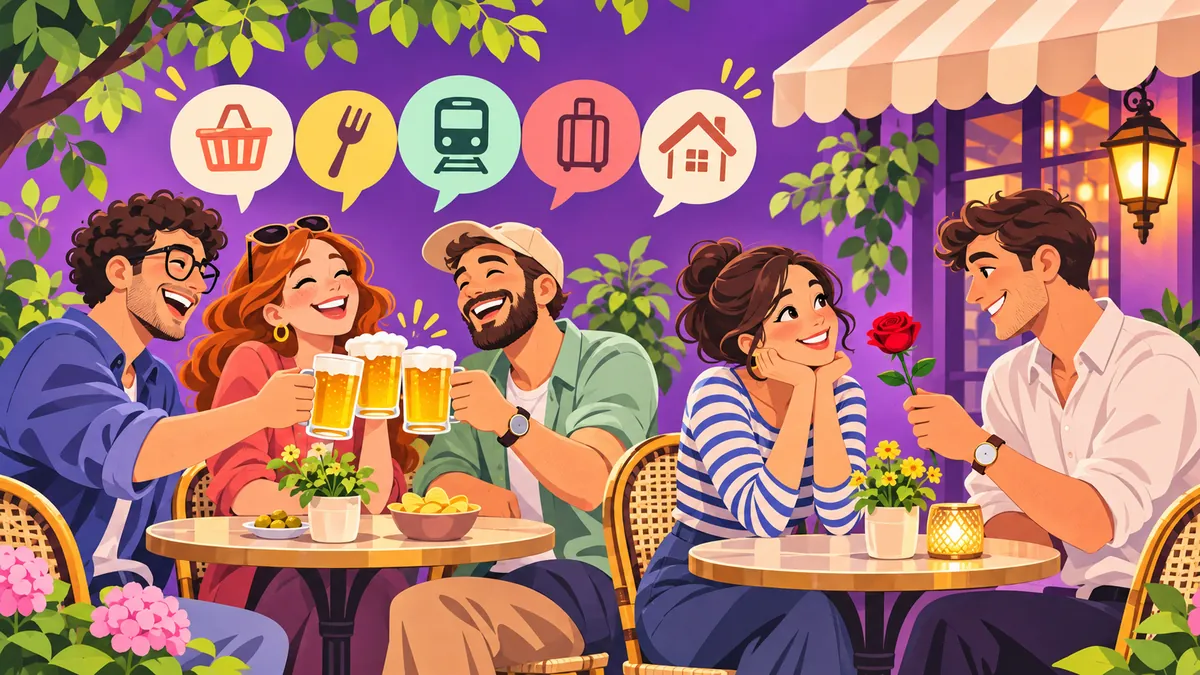
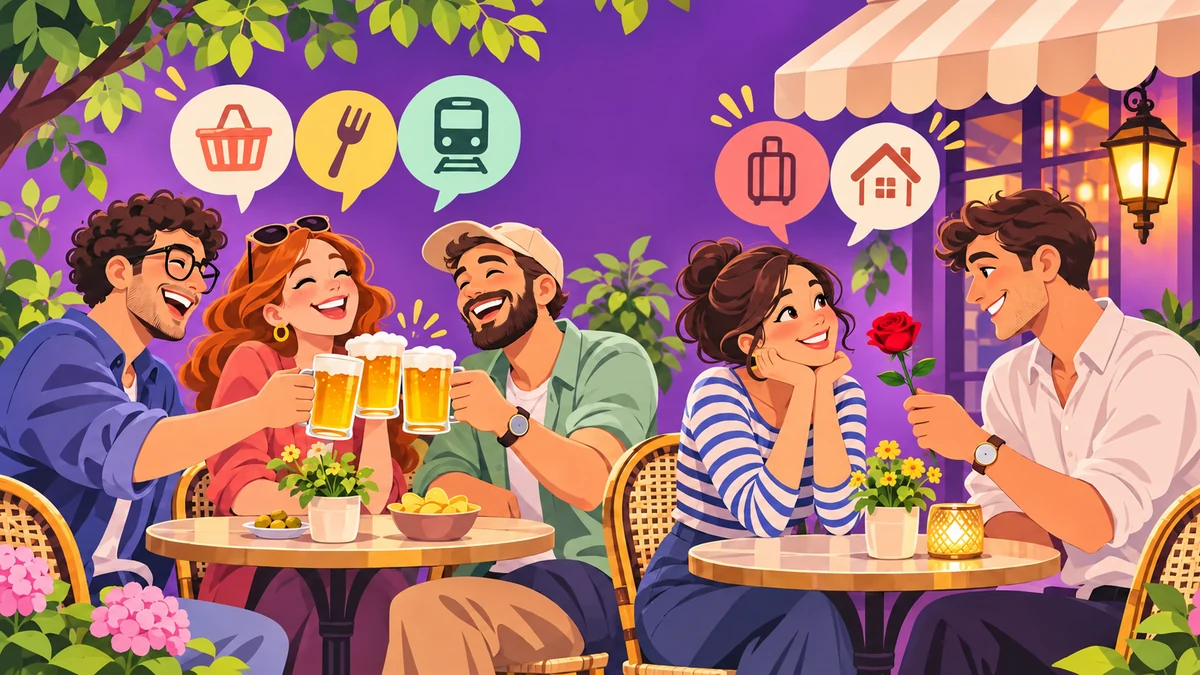
Refine dashboard hero and accessible login

diff --git a/src/app/app-pages.ts b/src/app/app-pages.ts
@@ -1,4 +1,4 @@
-import { Component, inject } from '@angular/core';
+import { Component, ElementRef, ViewChild, inject, signal } from '@angular/core';
 import { FormsModule } from '@angular/forms';
 import { RouterLink } from '@angular/router';
 import { App } from './app';
@@ -25,7 +25,7 @@ import { ProfilePanel } from './features/profile/profile-panel';
   selector: 'app-login-page',
   imports: [FormsModule],
   template: `
-    <div class="mx-auto max-w-5xl overflow-hidden rounded-[1.7rem] bg-white shadow-[0_18px_50px_#30275214] lg:grid lg:min-h-[690px] lg:grid-cols-[1.1fr_1fr]">
+    <div class="login-page mx-auto max-w-5xl overflow-hidden rounded-[1.7rem] bg-white shadow-[0_18px_50px_#30275214] lg:grid lg:min-h-[690px] lg:grid-cols-[1.1fr_1fr]">
       <div class="relative overflow-hidden bg-pop-primary lg:flex lg:flex-col lg:justify-end">
         <div class="flex items-center gap-2 bg-white px-5 py-3 lg:hidden"><img src="/illustrations/ourfinance-mark.svg" width="34" height="34" alt="" /><span class="text-lg font-black text-pop-primary-dark">ourfinance.</span></div>
         <picture><source media="(min-width: 1024px)" srcset="/illustrations/cafe-hero.webp" /><img class="h-72 w-full object-cover object-center sm:h-72 lg:h-full lg:min-h-[690px]" src="/illustrations/cafe-hero-mobile.webp" alt="" /></picture>
@@ -57,16 +57,17 @@ import { ProfilePanel } from './features/profile/profile-panel';
           @if (app.mode() !== 'login') {
             <div class="mt-4 flex gap-2 text-sm"><button class="font-bold text-pop-primary-dark underline" type="button" (click)="app.mode.set('login')">{{ t('connection') }}</button></div>
           }
-          <form class="mt-5 space-y-4" (ngSubmit)="app.submit()">
-            <label class="block text-sm font-bold">{{ t('email') }}<span class="relative mt-1 block"><svg class="pointer-events-none absolute left-3 top-1/2 -translate-y-1/2 text-pop-primary-dark" width="19" height="19" viewBox="0 0 24 24" fill="none" stroke="currentColor" stroke-width="1.8" aria-hidden="true"><rect x="3" y="5" width="18" height="14" rx="2" /><path d="m3 7 9 7 9-7" /></svg><input class="min-h-11 w-full rounded-xl border border-pop-border bg-pop-background py-2 pl-10 pr-3 focus-visible:outline-2 focus-visible:outline-pop-primary" type="email" name="email" autocomplete="email" [(ngModel)]="app.email" required /></span></label>
+          <form class="mt-5 space-y-4" novalidate (ngSubmit)="submit()">
+            <div><label class="block text-sm font-bold" for="login-email">{{ t('email') }}</label><span class="relative mt-1 block"><svg class="pointer-events-none absolute left-3 top-1/2 -translate-y-1/2 text-pop-primary-dark" width="19" height="19" viewBox="0 0 24 24" fill="none" stroke="currentColor" stroke-width="1.8" aria-hidden="true"><rect x="3" y="5" width="18" height="14" rx="2" /><path d="m3 7 9 7 9-7" /></svg><input #emailInput id="login-email" class="min-h-11 w-full rounded-xl border border-pop-border bg-pop-background py-2 pl-10 pr-3 focus-visible:outline-2 focus-visible:outline-pop-primary" type="email" name="email" autocomplete="email" [(ngModel)]="app.email" [attr.aria-invalid]="emailInvalid()" [attr.aria-describedby]="emailInvalid() ? 'login-email-error' : app.message() ? 'login-auth-message' : null" required /></span>@if (emailInvalid()) { <p id="login-email-error" class="mt-1 text-xs font-bold text-rose-700">{{ t('emailInvalid') }}</p> }</div>
             @if (app.mode() !== 'reset') {
-              <label class="block text-sm font-bold">{{ t('password') }}
-                <span class="mt-1 flex rounded-xl border border-pop-border bg-pop-background focus-within:outline-2 focus-within:outline-pop-primary">
+              <div><label class="block text-sm font-bold" for="login-password">{{ t('password') }}</label>
+                <span class="mt-1 flex rounded-xl border border-pop-border bg-pop-background focus-within:outline-2 focus-within:outline-pop-primary" [class.border-rose-600]="passwordInvalid()">
                   <svg class="ml-3 shrink-0 self-center text-pop-primary-dark" width="19" height="19" viewBox="0 0 24 24" fill="none" stroke="currentColor" stroke-width="1.8" aria-hidden="true"><rect x="4" y="10" width="16" height="11" rx="2" /><path d="M8 10V7a4 4 0 0 1 8 0v3" /></svg>
-                  <input class="min-h-11 min-w-0 flex-1 bg-transparent px-2 outline-none" [type]="app.showPassword() ? 'text' : 'password'" name="password" [autocomplete]="app.mode() === 'register' ? 'new-password' : 'current-password'" [(ngModel)]="app.password" required />
+                  <input #passwordInput id="login-password" class="min-h-11 min-w-0 flex-1 bg-transparent px-2 outline-none" [type]="app.showPassword() ? 'text' : 'password'" name="password" [autocomplete]="app.mode() === 'register' ? 'new-password' : 'current-password'" [(ngModel)]="app.password" [attr.aria-invalid]="passwordInvalid()" [attr.aria-describedby]="passwordInvalid() ? 'login-password-error' : app.message() ? 'login-auth-message' : null" required />
                   <button class="flex min-h-11 min-w-11 items-center justify-center px-3 text-pop-primary-dark" type="button" (click)="app.showPassword.update(value => !value)" [attr.aria-label]="app.showPassword() ? t('hidePassword') : t('showPassword')"><svg width="19" height="19" viewBox="0 0 24 24" fill="none" stroke="currentColor" stroke-width="1.8" aria-hidden="true"><path d="M2 12s3.5-6 10-6 10 6 10 6-3.5 6-10 6S2 12 2 12z" /><circle cx="12" cy="12" r="3" /></svg></button>
                 </span>
-              </label>
+                @if (passwordInvalid()) { <p id="login-password-error" class="mt-1 text-xs font-bold text-rose-700">{{ t('passwordRequired') }}</p> }
+              </div>
             }
             @if (app.mode() === 'login') { <button class="block min-h-9 w-full text-right text-xs font-bold text-pop-primary-dark" type="button" (click)="app.mode.set('reset')">{{ t('forgotten') }}</button> }
             <button class="min-h-12 w-full rounded-xl bg-pop-coral px-4 font-extrabold text-pop-text hover:brightness-95 disabled:opacity-50" [disabled]="app.busy() || !app.online()" type="submit">{{ app.mode() === 'register' ? t('register') : app.mode() === 'reset' ? t('resetSend') : t('login') }}</button>
@@ -77,12 +78,26 @@ import { ProfilePanel } from './features/profile/profile-panel';
             <p class="mt-4 text-center text-sm text-pop-muted">{{ t('newHere') }} <button class="font-bold text-pop-primary-dark underline" type="button" (click)="app.mode.set('register')">{{ t('signup') }}</button></p>
           }
         }
-        @if (app.message()) { <p class="mt-4 text-sm" role="status">{{ app.message() }}</p> }
+        @if (app.message()) { <p id="login-auth-message" class="mt-4 text-sm" role="alert">{{ app.message() }}</p> }
       </div>
     </div>
   `,
 })
-export class LoginPage { readonly app = inject(App); readonly t = t; }
+export class LoginPage {
+  readonly app = inject(App);
+  readonly t = t;
+  readonly submitted = signal(false);
+  @ViewChild('emailInput') emailInput?: ElementRef<HTMLInputElement>;
+  @ViewChild('passwordInput') passwordInput?: ElementRef<HTMLInputElement>;
+  emailInvalid(): boolean { return this.submitted() && !this.emailInput?.nativeElement.validity.valid; }
+  passwordInvalid(): boolean { return this.submitted() && this.app.mode() !== 'reset' && !this.app.password; }
+  async submit(): Promise<void> {
+    this.submitted.set(true);
+    if (this.emailInvalid()) { this.emailInput?.nativeElement.focus(); return; }
+    if (this.passwordInvalid()) { this.passwordInput?.nativeElement.focus(); return; }
+    await this.app.submit();
+  }
+}
 
 @Component({
   imports: [RouterLink, GroupOverview],
@@ -100,7 +115,8 @@ export class LoginPage { readonly app = inject(App); readonly t = t; }
         <section class="relative mt-3 overflow-hidden rounded-[1.8rem] bg-pop-primary text-white shadow-[0_12px_30px_#6455ec30] sm:mt-5" [attr.aria-label]="t('myBalance')">
           <div class="relative min-h-44 px-5 pb-20 pt-5 sm:hidden">
             <div class="relative z-10 max-w-[54%]"><p class="text-xl font-black leading-tight">{{ t('dashboardHello') }}{{ app.firstName() ? ' ' + app.firstName() : '' }} ! 👋</p><p class="mt-2 text-xs text-white/90">{{ t('dashboardIntro') }}</p><p class="mt-3 text-xs font-bold">{{ group.name }} · {{ group.currency }}</p></div>
-            <img class="pointer-events-none absolute bottom-[-1.2rem] right-[-1.3rem] w-[67%] max-w-64" src="/illustrations/couple-cafe-table.webp" alt="" />
+            <img class="pointer-events-none absolute inset-0 h-full w-full origin-left scale-[1.38] object-cover object-left opacity-90" src="/illustrations/cafe-hero-mobile.webp" alt="" />
+            <div class="pointer-events-none absolute inset-0 bg-gradient-to-r from-pop-primary via-pop-primary/85 to-transparent"></div>
           </div>
           <div class="hidden min-h-64 grid-cols-[52%_48%] sm:grid">
             <div class="relative overflow-hidden"><img class="absolute inset-0 h-full w-full object-cover object-[16%_45%]" src="/illustrations/cafe-hero-mobile.webp" alt="" /><div class="absolute inset-y-0 right-0 w-20 bg-gradient-to-r from-transparent to-pop-primary"></div></div>
@@ -110,13 +126,13 @@ export class LoginPage { readonly app = inject(App); readonly t = t; }
           </div>
         </section>
         <div class="mt-4 flex max-w-full min-w-0 snap-x gap-3 overflow-x-auto pb-1 sm:hidden" [attr.aria-label]="t('myGroups')">
-          @for (item of app.groups(); track item.id) { <button class="flex min-h-16 w-[80%] shrink-0 snap-start items-center gap-3 rounded-2xl border border-pop-border bg-white p-3 text-left" type="button" [attr.aria-pressed]="app.selectedGroupId() === item.id" (click)="app.selectedGroupId.set(item.id)"><img class="h-10 w-10" [src]="$index % 2 ? '/illustrations/category-travel.svg' : '/illustrations/category-home.svg'" alt="" /><span class="min-w-0 flex-1"><strong class="block truncate">{{ item.name }}</strong><small>{{ item.memberCount ?? 1 }} {{ t('membersCount') }}</small></span><span class="rounded-full bg-pop-lavender px-2 py-1 text-xs font-bold">{{ item.currency }}</span></button> }
+          @for (item of app.groups(); track item.id) { <button class="flex min-h-16 shrink-0 snap-start items-center gap-3 rounded-2xl border border-pop-border bg-white p-3 text-left" [class.w-full]="app.groups().length === 1" [class.w-[80%]]="app.groups().length > 1" type="button" [attr.aria-pressed]="app.selectedGroupId() === item.id" (click)="app.selectedGroupId.set(item.id)"><img class="h-10 w-10" [src]="$index % 2 ? '/illustrations/category-travel.svg' : '/illustrations/category-home.svg'" alt="" /><span class="min-w-0 flex-1"><strong class="block truncate">{{ item.name }}</strong><small>{{ item.memberCount ?? 1 }} {{ t('membersCount') }}</small></span><span class="rounded-full bg-pop-lavender px-2 py-1 text-xs font-bold">{{ item.currency }}</span></button> }
         </div>
         <a class="mt-2 flex min-h-11 items-center justify-center rounded-2xl bg-pop-lavender text-sm font-extrabold text-pop-primary-dark sm:hidden" routerLink="/groups">+ {{ t('createGroup') }}</a>
         <div class="flex flex-col">
         <nav class="mt-5 grid gap-3 sm:grid-cols-3" [attr.aria-label]="t('quickActions')">
           <a class="dashboard-action dashboard-action-coral" routerLink="/expenses"><span class="dashboard-action-icon dashboard-action-icon-coral" aria-hidden="true"><svg viewBox="0 0 48 48" fill="none"><path d="M24 10v28M10 24h28" stroke="currentColor" stroke-width="5" stroke-linecap="round" /></svg></span><strong>{{ t('addExpenseAction') }}</strong></a>
-          <a class="dashboard-action dashboard-action-lavender" routerLink="/groups"><span class="dashboard-action-icon" aria-hidden="true"><svg viewBox="0 0 48 48" fill="none"><circle cx="19" cy="17" r="7" stroke="currentColor" stroke-width="3"/><path d="M7 37v-3a12 12 0 0 1 24 0v3H7ZM36 15v14M29 22h14" stroke="currentColor" stroke-width="3" stroke-linecap="round" stroke-linejoin="round"/></svg></span><strong>{{ t('inviteQrAction') }}</strong><svg class="dashboard-action-qr" viewBox="0 0 36 36" fill="none" aria-hidden="true"><path d="M2 2h12v12H2zM22 2h12v12H22zM2 22h12v12H2z" stroke="currentColor" stroke-width="3"/><path d="M22 22h4v4h-4zM30 22h4v4h-4zM22 30h4v4h-4zM30 30h4v4h-4z" fill="currentColor"/></svg></a>
+          <a class="dashboard-action dashboard-action-lavender" routerLink="/groups"><span class="dashboard-action-icon" aria-hidden="true"><svg viewBox="0 0 24 24" fill="none" stroke="currentColor" stroke-width="2" stroke-linecap="round" stroke-linejoin="round"><path d="M2 21a8 8 0 0 1 13.292-6"/><circle cx="10" cy="8" r="5"/><path d="M19 16v6"/><path d="M22 19h-6"/></svg></span><strong>{{ t('inviteQrAction') }}</strong><svg class="dashboard-action-qr" viewBox="0 0 36 36" fill="none" aria-hidden="true"><path d="M2 2h12v12H2zM22 2h12v12H22zM2 22h12v12H2z" stroke="currentColor" stroke-width="3"/><path d="M22 22h4v4h-4zM30 22h4v4h-4zM22 30h4v4h-4zM30 30h4v4h-4z" fill="currentColor"/></svg></a>
           <a class="dashboard-action dashboard-action-lavender" routerLink="/statistics"><span class="dashboard-action-icon" aria-hidden="true"><svg viewBox="0 0 48 48" fill="none"><path d="M11 16h25l-6-6m6 6-6 6M37 32H12l6-6m-6 6 6 6" stroke="currentColor" stroke-width="3.5" stroke-linecap="round" stroke-linejoin="round"/></svg></span><strong>{{ t('settleAction') }}</strong></a>
         </nav>
         <div class="order-1 mt-5 grid gap-4 sm:order-2 lg:grid-cols-3">

diff --git a/src/app/shared/utils/i18n.ts b/src/app/shared/utils/i18n.ts
@@ -27,7 +27,7 @@ const messages = {
     loadingSettlement: 'Chargement des remboursements…', loadingSettlementHistory: 'Chargement de l’historique des remboursements…',
     loadingBalances: 'Chargement des soldes…', loadingStatistics: 'Chargement des statistiques…', loadingActivity: 'Chargement de l’activité…',
     loadingExport: 'Chargement de l’export de groupe…', loadingProfile: 'Chargement du profil…', logout: 'Déconnexion',
-    testSpace: 'Accédez à votre espace de test.', email: 'Adresse courriel', password: 'Mot de passe', showPassword: 'Afficher', hidePassword: 'Masquer', register: 'Créer un compte',
+    testSpace: 'Accédez à votre espace de test.', email: 'Adresse courriel', emailInvalid: 'Saisissez une adresse courriel valide.', password: 'Mot de passe', passwordRequired: 'Saisissez votre mot de passe.', showPassword: 'Afficher', hidePassword: 'Masquer', register: 'Créer un compte',
     resetSend: 'Envoyer le lien', login: 'Se connecter', google: 'Continuer avec Google', connection: 'Connexion', signup: 'Inscription', forgotten: 'Mot de passe oublié',
     registerHeading: 'Créer un compte', resetHeading: 'Réinitialiser le mot de passe', welcome: 'Bienvenue !', welcomeMobile: 'Bienvenue dans OurFinance !',
     verifySent: 'Courriel de vérification envoyé.', resetSent: 'Si ce compte existe, un courriel sera envoyé.', actionFailed: 'Action impossible. Vérifiez les données saisies ou réessayez plus tard.',
@@ -72,7 +72,7 @@ const messages = {
     loadingSettlement: 'Loading repayments…', loadingSettlementHistory: 'Loading repayment history…',
     loadingBalances: 'Loading balances…', loadingStatistics: 'Loading statistics…', loadingActivity: 'Loading activity…',
     loadingExport: 'Loading group export…', loadingProfile: 'Loading profile…', logout: 'Sign out',
-    testSpace: 'Access your test space.', email: 'Email address', password: 'Password', showPassword: 'Show', hidePassword: 'Hide', register: 'Create account',
+    testSpace: 'Access your test space.', email: 'Email address', emailInvalid: 'Enter a valid email address.', password: 'Password', passwordRequired: 'Enter your password.', showPassword: 'Show', hidePassword: 'Hide', register: 'Create account',
     resetSend: 'Send link', login: 'Sign in', google: 'Continue with Google', connection: 'Sign in', signup: 'Sign up', forgotten: 'Forgot password',
     registerHeading: 'Create account', resetHeading: 'Reset password', welcome: 'Welcome!', welcomeMobile: 'Welcome to OurFinance!',
     verifySent: 'Verification email sent.', resetSent: 'If this account exists, an email will be sent.', actionFailed: 'Action failed. Check your details or try again later.',
@@ -117,7 +117,7 @@ const messages = {
     loadingSettlement: '返済を読み込んでいます…', loadingSettlementHistory: '返済履歴を読み込んでいます…',
     loadingBalances: '残高を読み込んでいます…', loadingStatistics: '統計を読み込んでいます…', loadingActivity: 'アクティビティを読み込んでいます…',
     loadingExport: 'グループのエクスポートを読み込んでいます…', loadingProfile: 'プロフィールを読み込んでいます…', logout: 'ログアウト',
-    testSpace: 'テスト環境にアクセスします。', email: 'メールアドレス', password: 'パスワード', showPassword: '表示', hidePassword: '非表示', register: 'アカウントを作成',
+    testSpace: 'テスト環境にアクセスします。', email: 'メールアドレス', emailInvalid: '有効なメールアドレスを入力してください。', password: 'パスワード', passwordRequired: 'パスワードを入力してください。', showPassword: '表示', hidePassword: '非表示', register: 'アカウントを作成',
     resetSend: 'リンクを送信', login: 'ログイン', google: 'Google で続行', connection: 'ログイン', signup: '新規登録', forgotten: 'パスワードを忘れた場合',
     registerHeading: 'アカウントを作成', resetHeading: 'パスワードを再設定', welcome: 'ようこそ！', welcomeMobile: 'OurFinance へようこそ！',
     verifySent: '確認メールを送信しました。', resetSent: 'アカウントが存在する場合、メールを送信します。', actionFailed: '操作できませんでした。入力内容を確認して再試行してください。',

diff --git a/src/styles.css b/src/styles.css
@@ -21,15 +21,18 @@ body { background: var(--color-pop-background); color: var(--color-pop-text); fo
 html { scroll-behavior: smooth; }
 :where(button:not(:disabled), a[href], select:not(:disabled)) { cursor: pointer; }
 button:disabled { cursor: not-allowed; }
+.login-page button:focus-visible { outline: 3px solid var(--color-pop-primary); outline-offset: 3px; }
 .dashboard-action { position: relative; display: flex; min-width: 0; min-height: 6.25rem; align-items: center; gap: .9rem; overflow: hidden; border: 2px solid #fff; border-radius: 1.8rem; padding: .85rem 1.1rem; box-shadow: 0 9px 22px #6a52ca29, inset 0 1px 0 #ffffffb8; transition: transform .15s ease, box-shadow .15s ease; }
 .dashboard-action:hover { transform: translateY(-3px); box-shadow: 0 13px 26px #6a52ca38, inset 0 1px 0 #ffffffb8; }
 .dashboard-action:focus-visible { outline: 3px solid var(--color-pop-primary-dark); outline-offset: 3px; }
 .dashboard-action strong { min-width: 0; max-width: 13ch; font-size: clamp(1rem, 1.55vw, 1.35rem); font-weight: 900; line-height: 1.14; }
-.dashboard-action-coral { background: linear-gradient(125deg, #ff8666 0%, #ff624f 100%); color: white; }
+.dashboard-action-coral { background: linear-gradient(145deg, #ffa07c 0%, #ff785e 43%, #f9544d 100%); color: white; }
+.dashboard-action-coral::before { content: ''; position: absolute; left: -1.2rem; top: -2rem; width: 9rem; height: 9rem; border-radius: 50%; background: radial-gradient(circle, #ffffff38 0%, #ffffff14 55%, transparent 72%); pointer-events: none; }
+.dashboard-action-coral::after { content: ''; position: absolute; left: 2.5rem; bottom: -2.9rem; width: 8rem; height: 8rem; transform: rotate(25deg); border-radius: 40%; background: #ffffff12; pointer-events: none; }
 .dashboard-action-lavender { background: linear-gradient(120deg, #f1e8ff 0%, #ded4ff 100%); color: #271252; }
 .dashboard-action-icon { display: flex; width: 3.35rem; height: 3.35rem; flex: none; align-items: center; justify-content: center; border-radius: 50%; background: #ffffffd9; color: #6041cf; box-shadow: 0 3px 12px #5032a221; }
 .dashboard-action-icon svg { width: 2.1rem; height: 2.1rem; }
-.dashboard-action-icon-coral { background: #ff7458; color: #fff; box-shadow: 0 3px 14px #d6423570; }
+.dashboard-action-icon-coral { position: relative; z-index: 1; background: linear-gradient(145deg, #ff946c, #fb654f); color: #fff; box-shadow: 0 3px 14px #d6423570, inset 0 1px 0 #ffffff55; }
 .dashboard-action-qr { width: 1.85rem; height: 1.85rem; flex: none; margin-left: auto; color: #7954dd; }
 @media (max-width: 639px) { .dashboard-action { min-height: 5.25rem; } .dashboard-action strong { font-size: 1.1rem; } }
 @media (prefers-reduced-motion: reduce) { html { scroll-behavior: auto; } }

diff --git a/docs/licenses/LUCIDE_ISC.md b/docs/licenses/LUCIDE_ISC.md
@@ -1,0 +1,43 @@
+ISC License
+
+Copyright (c) 2026 Lucide Icons and Contributors
+
+Permission to use, copy, modify, and/or distribute this software for any
+purpose with or without fee is hereby granted, provided that the above
+copyright notice and this permission notice appear in all copies.
+
+THE SOFTWARE IS PROVIDED "AS IS" AND THE AUTHOR DISCLAIMS ALL WARRANTIES
+WITH REGARD TO THIS SOFTWARE INCLUDING ALL IMPLIED WARRANTIES OF
+MERCHANTABILITY AND FITNESS. IN NO EVENT SHALL THE AUTHOR BE LIABLE FOR
+ANY SPECIAL, DIRECT, INDIRECT, OR CONSEQUENTIAL DAMAGES OR ANY DAMAGES
+WHATSOEVER RESULTING FROM LOSS OF USE, DATA OR PROFITS, WHETHER IN AN
+ACTION OF CONTRACT, NEGLIGENCE OR OTHER TORTIOUS ACTION, ARISING OUT OF
+OR IN CONNECTION WITH THE USE OR PERFORMANCE OF THIS SOFTWARE.
+
+---
+
+The following Lucide icons are derived from the Feather project:
+
+airplay, alert-circle, alert-octagon, alert-triangle, aperture, arrow-down-circle, arrow-down-left, arrow-down-right, arrow-down, arrow-left-circle, arrow-left, arrow-right-circle, arrow-right, arrow-up-circle, arrow-up-left, arrow-up-right, arrow-up, at-sign, calendar, cast, check, chevron-down, chevron-left, chevron-right, chevron-up, chevrons-down, chevrons-left, chevrons-right, chevrons-up, circle, clipboard, clock, code, columns, command, compass, corner-down-left, corner-down-right, corner-left-down, corner-left-up, corner-right-down, corner-right-up, corner-up-left, corner-up-right, crosshair, database, divide-circle, divide-square, dollar-sign, download, external-link, feather, frown, hash, headphones, help-circle, info, italic, key, layout, life-buoy, link-2, link, loader, lock, log-in, log-out, maximize, meh, minimize, minimize-2, minus-circle, minus-square, minus, monitor, moon, more-horizontal, more-vertical, move, music, navigation-2, navigation, octagon, pause-circle, percent, plus-circle, plus-square, plus, power, radio, rss, search, server, share, shopping-bag, sidebar, smartphone, smile, square, table-2, tablet, target, terminal, trash-2, trash, triangle, tv, type, upload, x-circle, x-octagon, x-square, x, zoom-in, zoom-out
+
+The MIT License (MIT) (for the icons listed above)
+
+Copyright (c) 2013-present Cole Bemis
+
+Permission is hereby granted, free of charge, to any person obtaining a copy
+of this software and associated documentation files (the "Software"), to deal
+in the Software without restriction, including without limitation the rights
+to use, copy, modify, merge, publish, distribute, sublicense, and/or sell
+copies of the Software, and to permit persons to whom the Software is
+furnished to do so, subject to the following conditions:
+
+The above copyright notice and this permission notice shall be included in all
+copies or substantial portions of the Software.
+
+THE SOFTWARE IS PROVIDED "AS IS", WITHOUT WARRANTY OF ANY KIND, EXPRESS OR
+IMPLIED, INCLUDING BUT NOT LIMITED TO THE WARRANTIES OF MERCHANTABILITY,
+FITNESS FOR A PARTICULAR PURPOSE AND NONINFRINGEMENT. IN NO EVENT SHALL THE
+AUTHORS OR COPYRIGHT HOLDERS BE LIABLE FOR ANY CLAIM, DAMAGES OR OTHER
+LIABILITY, WHETHER IN AN ACTION OF CONTRACT, TORT OR OTHERWISE, ARISING FROM,
+OUT OF OR IN CONNECTION WITH THE SOFTWARE OR THE USE OR OTHER DEALINGS IN THE
+SOFTWARE.
